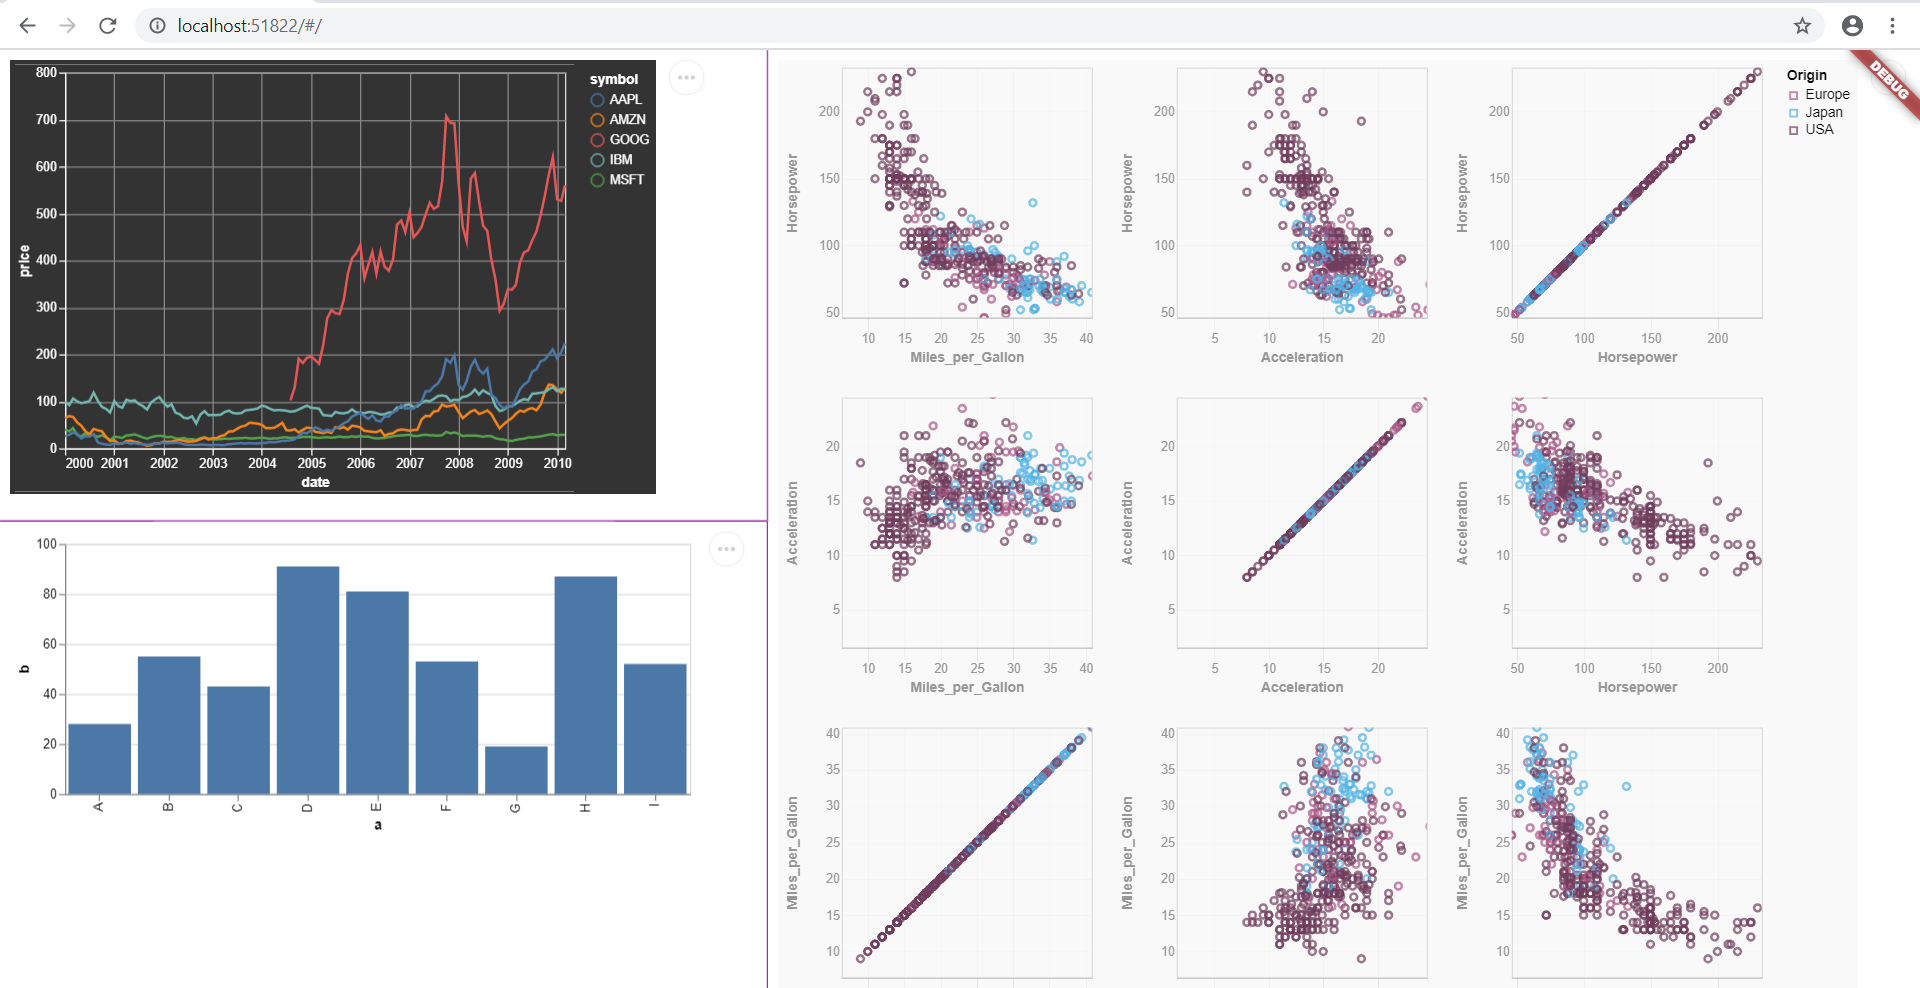
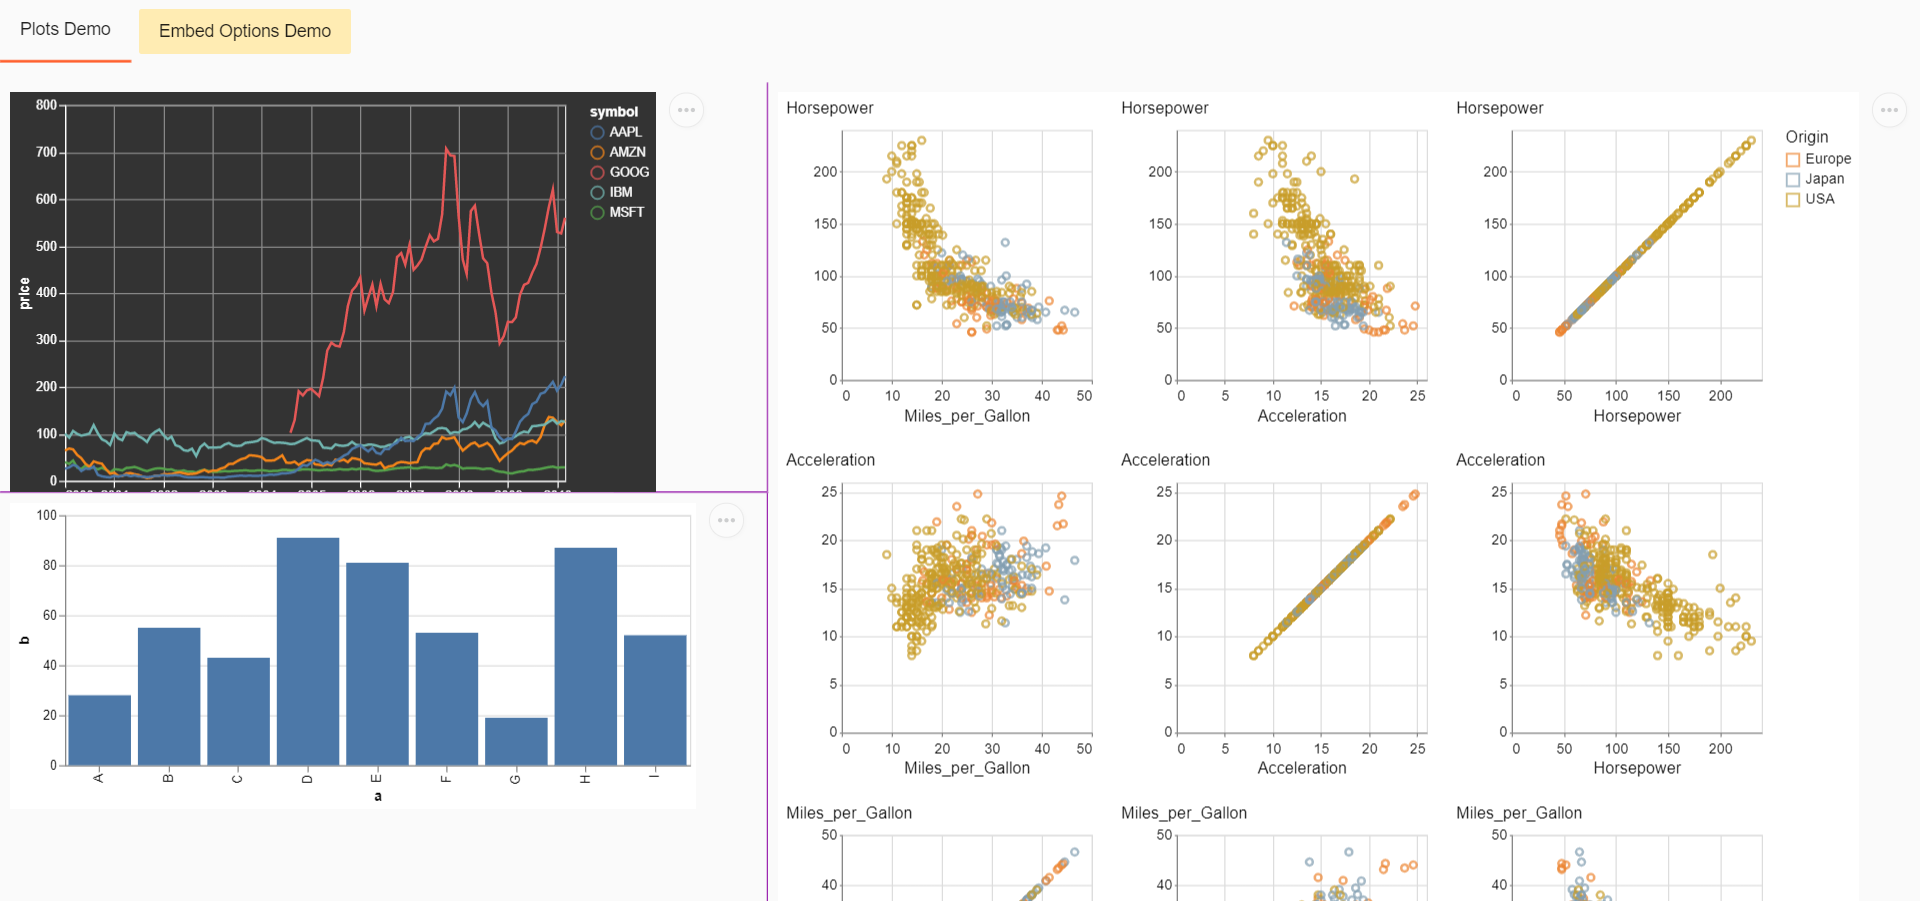
Updated readme. Added 3 more examples. Changed demo image.

diff --git a/example/lib/main.dart b/example/lib/main.dart
@@ -308,6 +308,30 @@ class _PlotWithOptionsState extends State<PlotWithOptions> {
                     hlStart: 14,
                     hlEnd: 17,
                   ),
+                  ListButton(
+                    _pageController,
+                    _pageIndexStreamCntlr,
+                    8,
+                    'Change Scale of export',
+                    hlStart: 13,
+                    hlEnd: 14,
+                  ),
+                  ListButton(
+                    _pageController,
+                    _pageIndexStreamCntlr,
+                    9,
+                    'Remove Editor and Source options from menu',
+                    hlStart: 13,
+                    hlEnd: 16,
+                  ),
+                  ListButton(
+                    _pageController,
+                    _pageIndexStreamCntlr,
+                    10,
+                    'Customize Export file name',
+                    hlStart: 13,
+                    hlEnd: 13,
+                  ),
                 ],
               ),
             ),
@@ -402,6 +426,9 @@ class _PlotOptionsViewState extends State<PlotOptionsView> {
         Example6(),
         Example7(),
         Example8(),
+        Example9(),
+        Example10(),
+        Example11(),
       ],
     );
   }

diff --git a/example/lib/examples/example10.dart b/example/lib/examples/example10.dart
@@ -1,0 +1,20 @@
+import 'package:flutter/material.dart' hide Padding, Actions;
+import 'package:vega_embed_flutter/vega_embed_flutter.dart';
+
+/// An interactive multi line plot with hover tool tip.
+/// Uses the VegaEmbedOptions to diable some actions in the menu.
+class Example10 extends StatelessWidget {
+  @override
+  Widget build(BuildContext context) {
+    return VegaLiteEmbedder(
+      viewFactoryId: UniqueKey().toString(),
+      vegaLiteSpecLocation: 'assets/vega_lite_specs/bar_chart.json',
+      vegaOptions: VegaEmbedOptions(
+        actions: Actions(
+          editor: false,
+          source: false,
+        ),
+      ),
+    );
+  }
+}

diff --git a/example/lib/examples/example11.dart b/example/lib/examples/example11.dart
@@ -1,0 +1,17 @@
+import 'package:flutter/material.dart' hide Padding, Actions;
+import 'package:vega_embed_flutter/vega_embed_flutter.dart';
+
+/// An interactive multi line plot with hover tool tip.
+/// Uses the VegaEmbedOptions to diable some actions in the menu.
+class Example11 extends StatelessWidget {
+  @override
+  Widget build(BuildContext context) {
+    return VegaLiteEmbedder(
+      viewFactoryId: UniqueKey().toString(),
+      vegaLiteSpecLocation: 'assets/vega_lite_specs/bar_chart.json',
+      vegaOptions: VegaEmbedOptions(
+        downloadFileName: 'My_Custome_downlod_name',
+      ),
+    );
+  }
+}

diff --git a/example/lib/examples/example9.dart b/example/lib/examples/example9.dart
@@ -1,0 +1,18 @@
+import 'package:flutter/material.dart' hide Padding;
+import 'package:vega_embed_flutter/vega_embed_flutter.dart';
+
+/// An interactive multi line plot with hover tool tip.
+/// Uses the VegaEmbedOptions to set the scale of the plot.
+class Example9 extends StatelessWidget {
+  @override
+  Widget build(BuildContext context) {
+    return VegaLiteEmbedder(
+      viewFactoryId: UniqueKey().toString(),
+      vegaLiteSpecLocation: 'assets/vega_lite_specs/bar_chart.json',
+      vegaOptions: VegaEmbedOptions(
+        // defaults to 1.0
+        scaleFactor: 2.0,
+      ),
+    );
+  }
+}

diff --git a/example/lib/examples/examples.dart b/example/lib/examples/examples.dart
@@ -6,3 +6,6 @@ export 'example5.dart';
 export 'example6.dart';
 export 'example7.dart';
 export 'example8.dart';
+export 'example9.dart';
+export 'example10.dart';
+export 'example11.dart';

diff --git a/README.md b/README.md
@@ -3,18 +3,13 @@
 
 # vega_embed_flutter
 
-A Flutter widget to embed vega-lite charts to flutter web. Works only in Flutter web as of now. Internall it uses vega-embed js library to embed these specs using JS interops and `HTMLElementView`. Here is an example chart rendered using this package.
+A Flutter widget to embed vega-lite charts to flutter web. Works only in Flutter web as of now. Internall it uses vega-embed js library to embed these specs using JS interops and `HTMLElementView`. A Demo page with examples for available vega-embed options is available below.
 
-![A an example chart](repo_example.png)
+[![A demo page](repo_example.png)](https://abhilash-chandran.github.io/vega_embed_flutter/)
 
-A Demo page with examples for available vega-embed options is available below.
-
-<iframe src='https://abhilash-chandran.github.io/vega_embed_flutter/' width='400px' height='400px'></iframe>
 A full fledged demo page with various charts utilizing this package is avalaible [here](https://abhilash-chandran.github.io/vega_embed_flutter_demo_page/#/)
 
-![Demo Page Gif](interactions.gif)
-
-For a simple example check the examples section.
+[![Demo Page Gif](interactions.gif)](https://abhilash-chandran.github.io/vega_embed_flutter_demo_page/#/)
 
 # Credits
 
@@ -90,6 +85,34 @@ class BarChart extends StatelessWidget {
 
 # VegaEmbed Options [WIP]
 
-Some of the VegaEmbed option like default theming is already working. Remaining option will be tested and documented as and when this package progresses.
+Following vega-embed options are tested and are available as part of demo page. If you need further comprehensive options to be tested enabled please do raise and issue so that I can spend time on options which are necessary.
+
+For a detailed description of what each vega emabed options check this page.
+https://github.com/vega/vega-embed#options
+
+|  Embed Options   |      Working       |                                          Comments                                          |
+| :--------------: | :----------------: | :----------------------------------------------------------------------------------------: |
+|       mode       |   :construction:   |                                  Avialble but not tested.                                  |
+|      theme       |       :100:        |                                                                                            |
+|   defaultStyle   | :heavy_check_mark: |                                                                                            |
+|     renderer     | :heavy_check_mark: |                                                                                            |
+|     logLevel     |   :construction:   |                                                                                            |
+|     tooltip      |     :thinking:     |                                 Let me know if you need it                                 |
+|      loader      |        :x:         |                                                                                            |
+|      patch       |        :x:         |                                                                                            |
+|      width       | :heavy_check_mark: |                  Note: :warning: width mentioned in spec overrides this.                   |
+|      height      | :heavy_check_mark: |                  Note: :warning: Height mentioned in spec overrides this.                  |
+|     padding      | :heavy_check_mark: |                                                                                            |
+|     actions      |   :construction:   |    Note: :warning: an example is shown to remove actions. But its not complete to spec.    |
+|   scaleFactor    | :heavy_check_mark: |                                Note: This is a scale factor                                |
+|      config      |     :thinking:     | Let me know if you need it. Porting config object to dart will take lot of effort to test. |
+|    editorUrl     |   :construction:   |                                  Avialble but not tested.                                  |
+|   sourceHeader   |   :construction:   |                                  Avialble but not tested.                                  |
+|   sourceFooter   |   :construction:   |                                  Avialble but not tested.                                  |
+|      hover       |     :thinking:     |                                Let me know if you need it.                                 |
+|       i18n       | :heavy_check_mark: |                                                                                            |
+| downloadFileName | :heavy_check_mark: |                                                                                            |
+|   formatLocale   |   :construction:   |                                  Avialble but not tested.                                  |
+| timeFormatLocale |   :construction:   |                                  Avialble but not tested.                                  |
 
 #### Any kind of code, idea, suggestions are welcome. Please check the repository and file your feedbacks and bugs which is highly appreciated.
